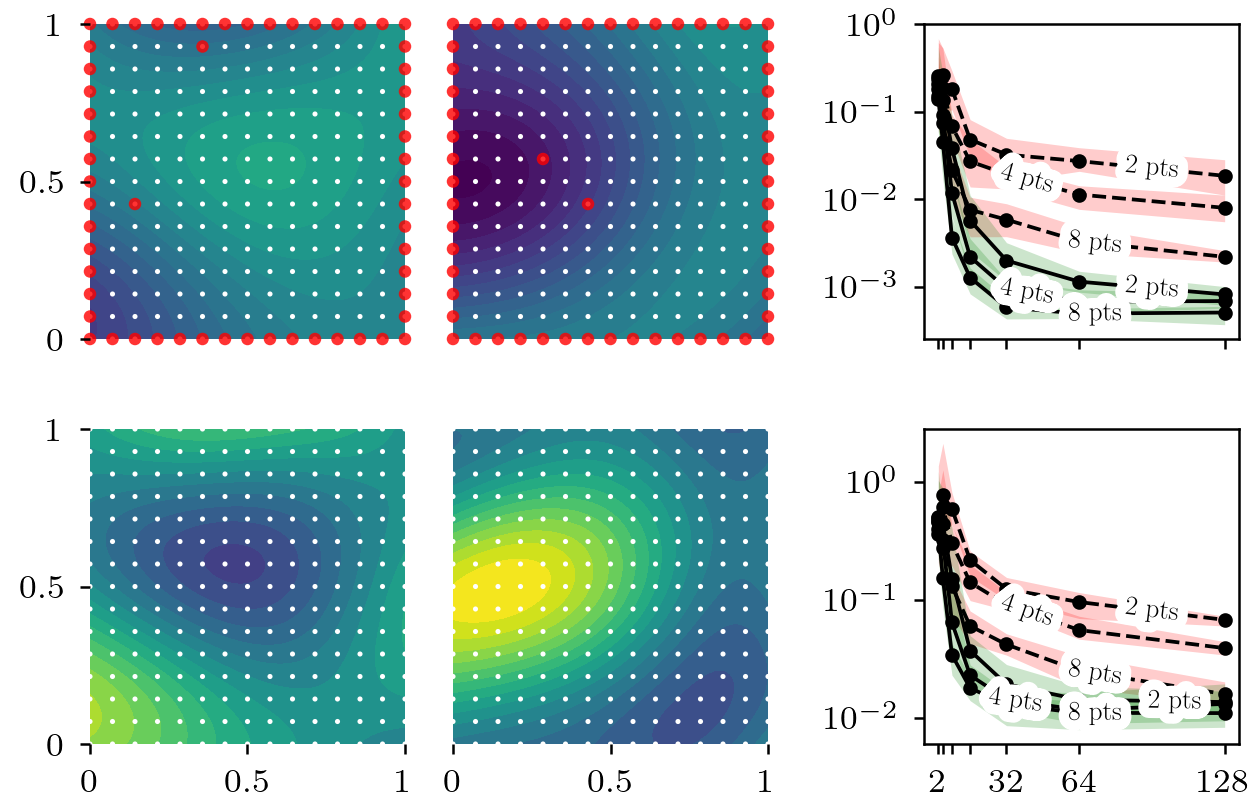
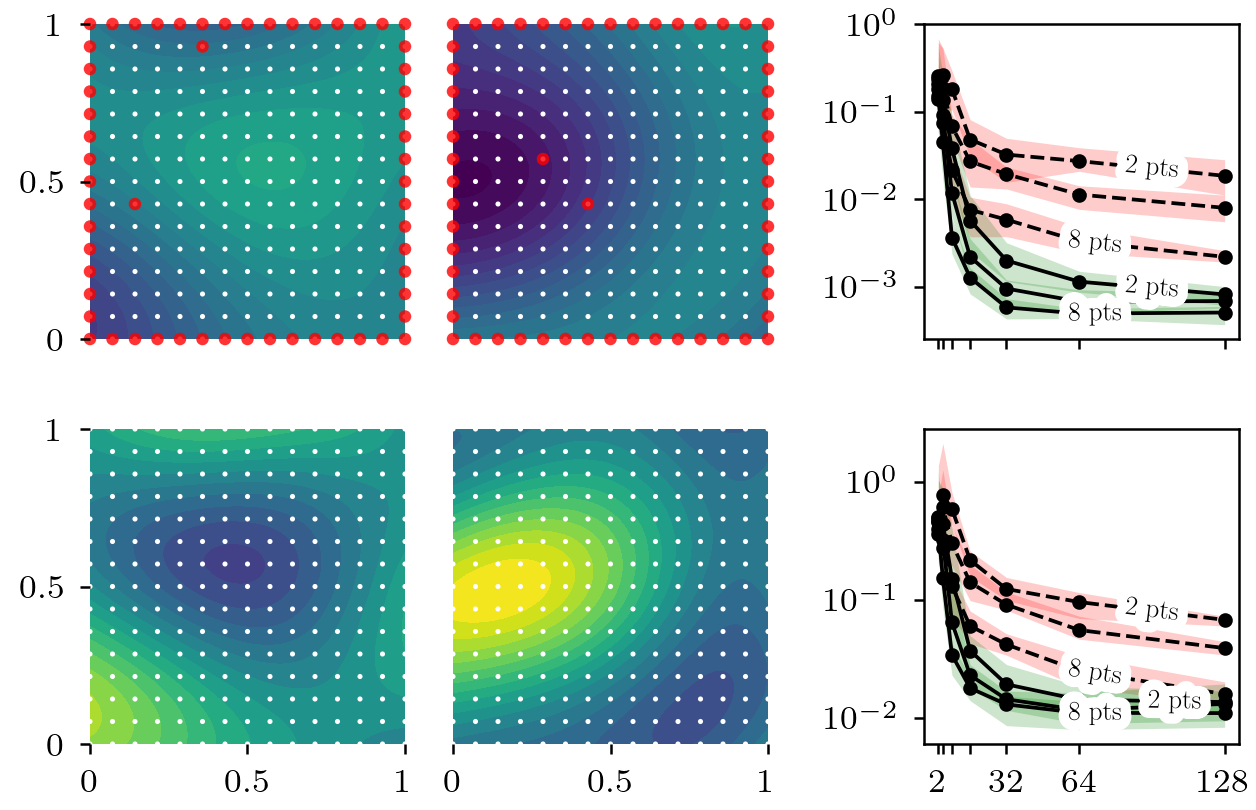
generated new figure with less labels

diff --git a/misc/darcy_composite_figure/make_figure.py b/misc/darcy_composite_figure/make_figure.py
@@ -21,6 +21,7 @@ HERE = os.path.dirname(os.path.abspath(__file__))
 OBS_PTS = 2              # which observation-count dataset the fields come from (2, 4 or 8)
 SAMPLES = [0, 1]      # which of the m=5 sampled functions to show (0-based)
 OBS_PTS_LIST = [2, 4, 8]
+LABELED_PTS = [2, 8]     # only these curves get an inline label (all curves are drawn)
 N_COL = len(SAMPLES)
 
 # Layout (inches). Every row of the 2x3 arrangement has height = FIELD.
@@ -104,20 +105,23 @@ for row, vals in enumerate([u, f]):
 
 # ---------------------------------------------------------------- errors
 def plot_errors(ax, tag, xvals):
+    labeled = []
     for short, ls, band in [('2step', 'dashed', 'red'), ('1step', 'solid', 'green')]:
         for n in OBS_PTS_LIST:
             k = f'{tag}_{short}_{n}'
-            ax.plot(M, d[k + '_mean'], label=f'{n} pts', marker='o', markersize=2.5,
-                    linestyle=ls, linewidth=0.9, color='black')
+            line, = ax.plot(M, d[k + '_mean'], label=f'{n} pts', marker='o', markersize=2.5,
+                            linestyle=ls, linewidth=0.9, color='black')
+            if n in LABELED_PTS:
+                labeled.append(line)
             ax.fill_between(M, d[k + '_lower'], d[k + '_upper'], alpha=.2, color=band,
                             linewidth=0)
     ax.set_yscale('log')
     ax.minorticks_off()
-    labelLines(ax.get_lines(), align=True, xvals=xvals, fontsize=6.5)
+    labelLines(labeled, align=True, xvals=xvals, fontsize=6.5)
 
 
-plot_errors(ax_ol, 'ol', xvals=[100, 45, 75] + [100, 45, 75])
-plot_errors(ax_id, 'id', xvals=[100, 45, 75] + [110, 40, 75])
+plot_errors(ax_ol, 'ol', xvals=[100, 75] + [100, 75])
+plot_errors(ax_id, 'id', xvals=[100, 75] + [110, 75])
 ax_ol.set_ylim(top=1e0)
 
 ax_id.set_xticks(M)
